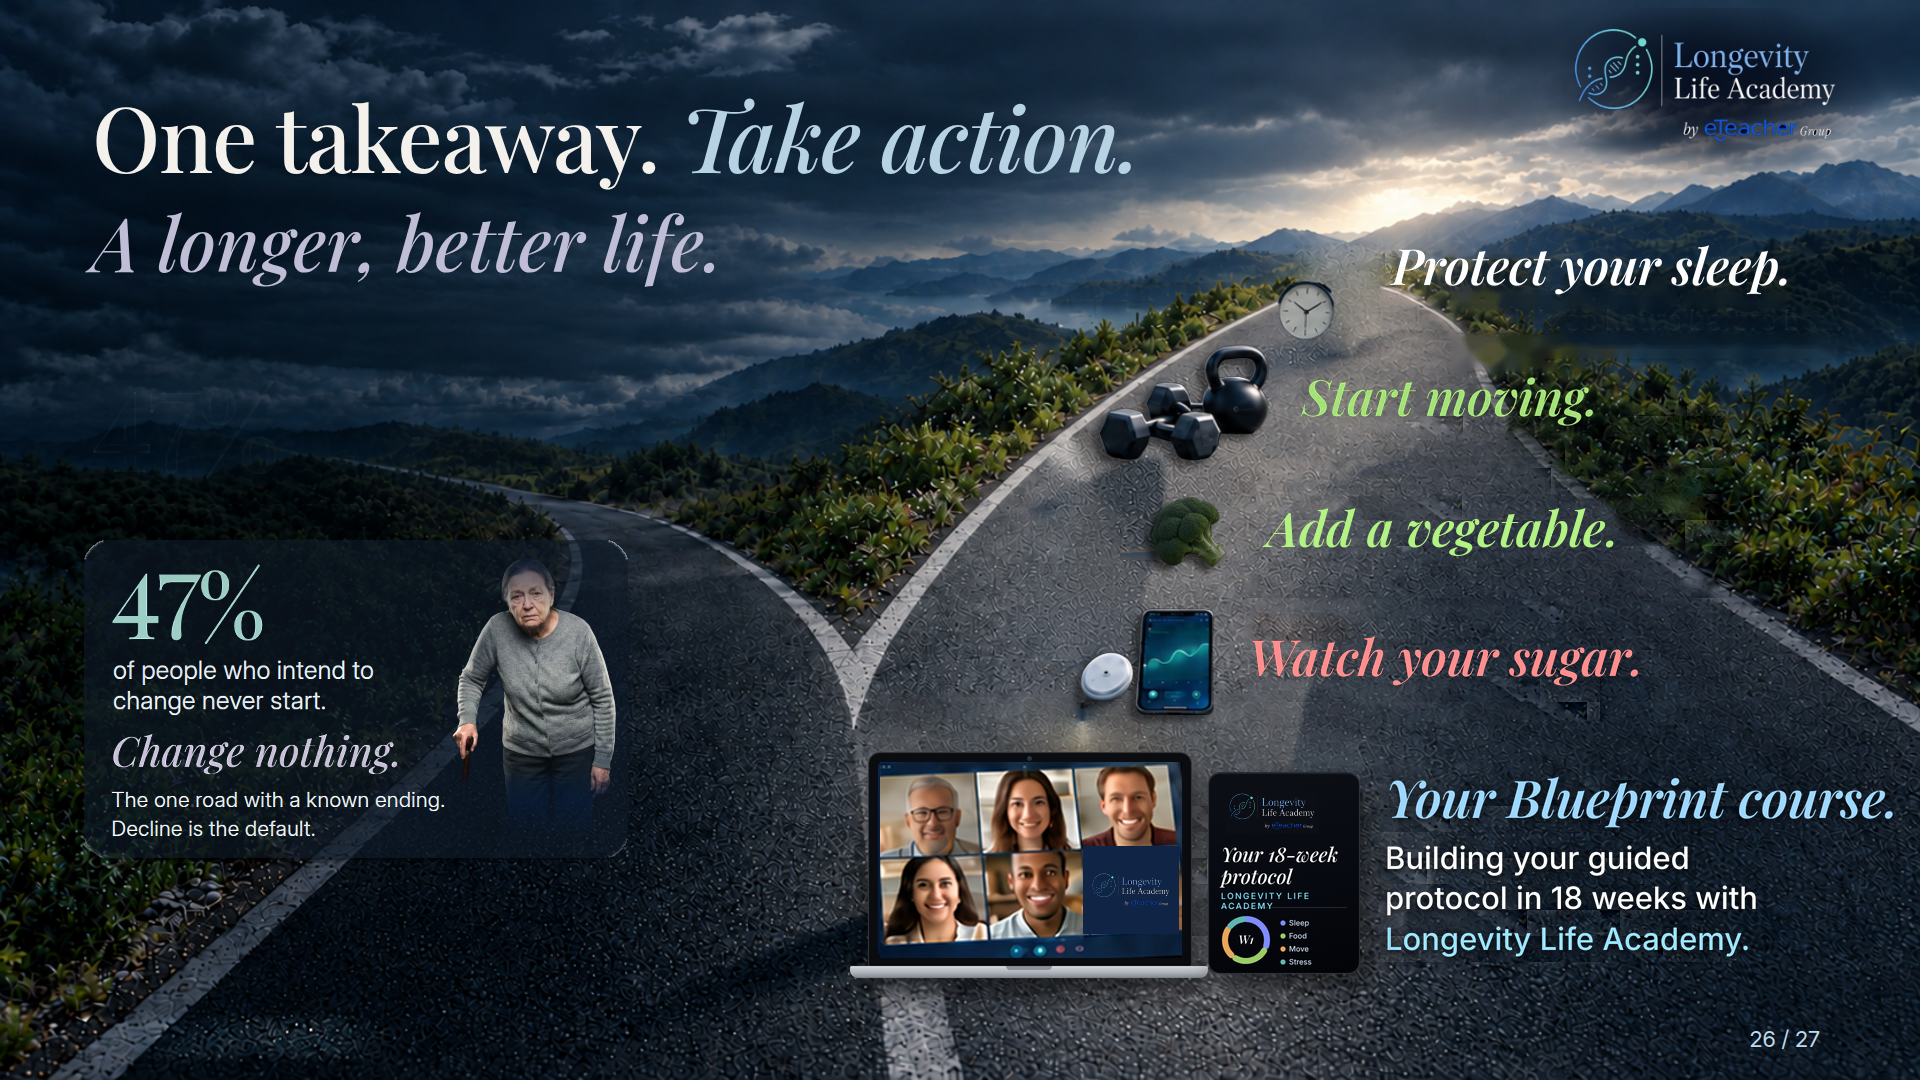
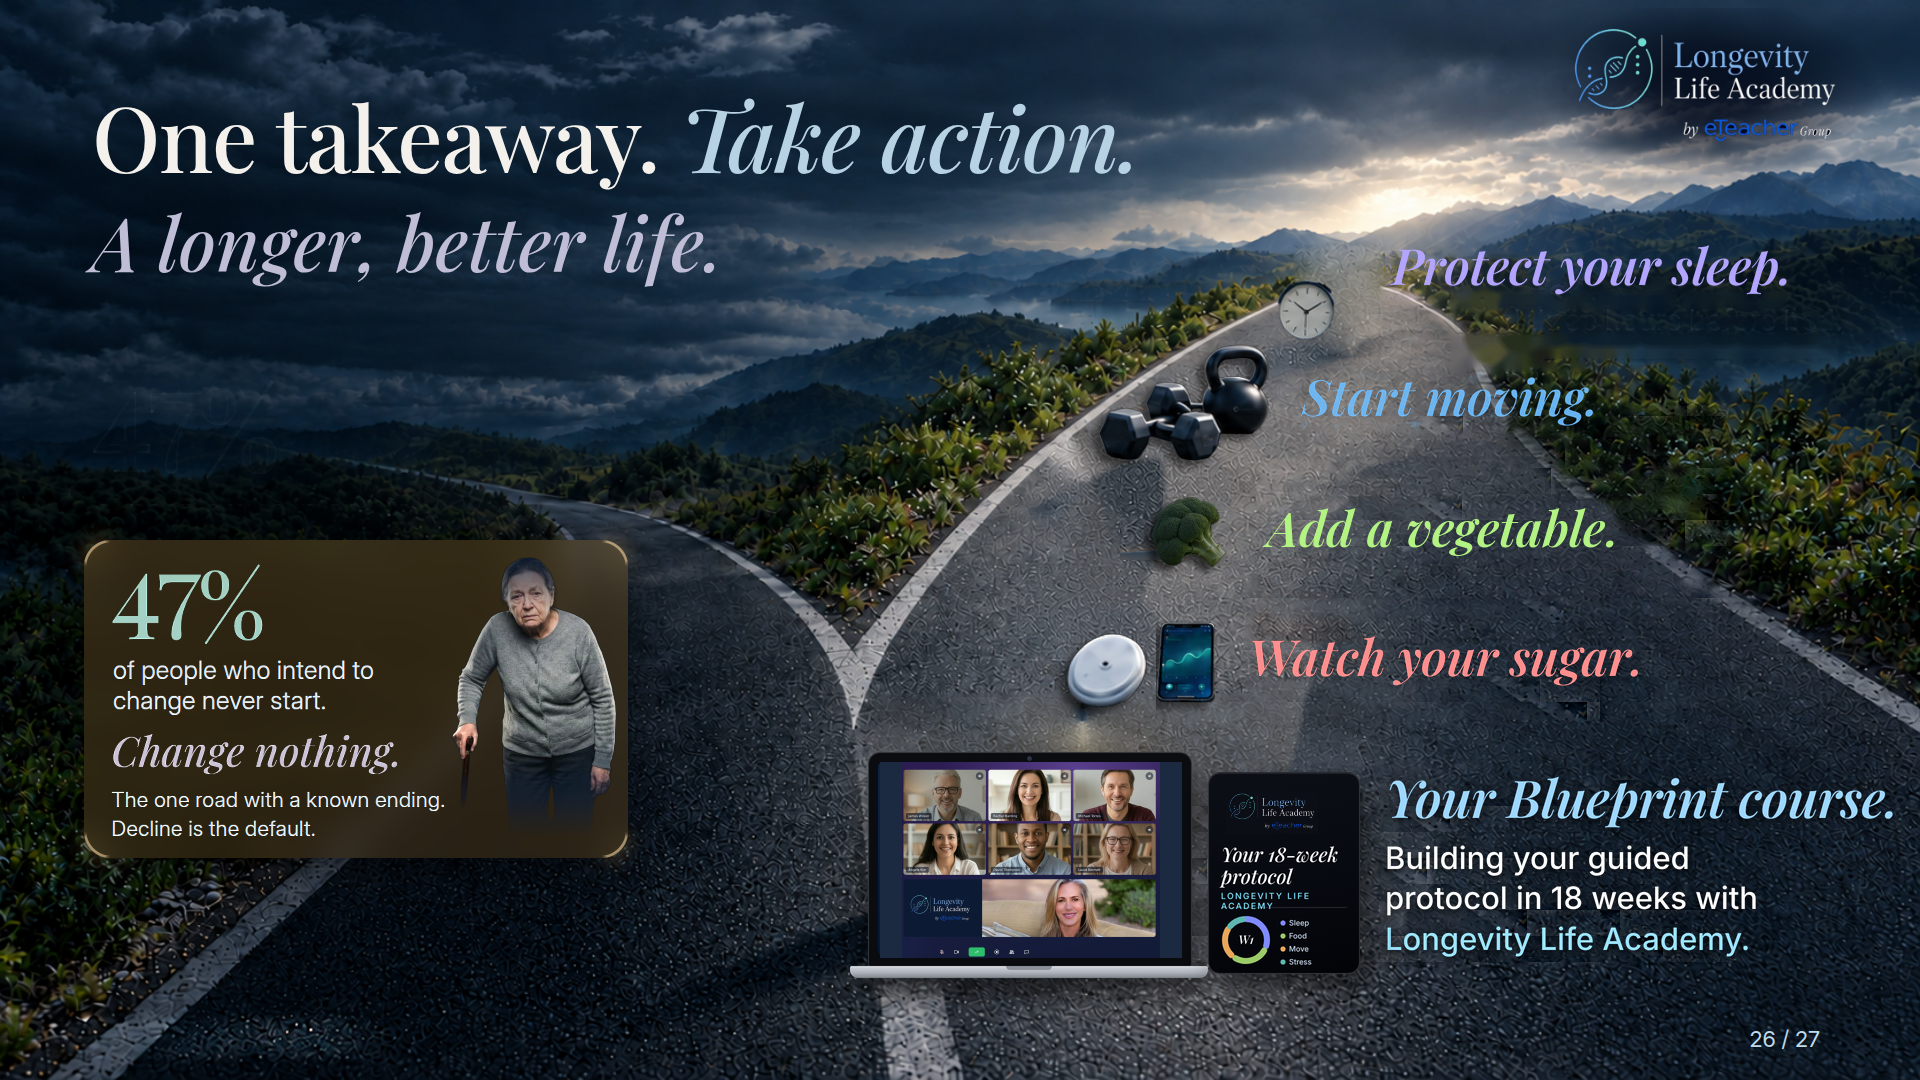
fork-lab: real Zoom mockup on laptop, bigger CGM/smaller phone, deck glass card (gold), distinct action colours

diff --git a/slide-canvas/fork-lab/index.html b/slide-canvas/fork-lab/index.html
@@ -1,4 +1,4 @@
 <!doctype html><html><head><meta charset="utf-8"><title>Fork lab – slide 26</title>
 <style>body{margin:0;background:#0b1220;color:#dfe7f3;font:15px/1.4 Inter,system-ui,sans-serif}h2{font-weight:500;margin:28px 24px 10px}img{display:block;width:calc(100% - 48px);max-width:1920px;margin:0 24px 24px;border-radius:6px}</style></head>
 <body><h2>Original</h2><img src="original-n25-fork.png?v=1" alt="Original">
-<h2>New</h2><img src="new-n25-fork.png?v=8" alt="New"></body></html>
+<h2>New</h2><img src="new-n25-fork.png?v=9" alt="New"></body></html>

diff --git a/slide-canvas/fork-lab/src/b3.py b/slide-canvas/fork-lab/src/b3.py
@@ -1,5 +1,5 @@
 import cv2,numpy as np
-from PIL import Image
+from PIL import Image,ImageDraw
 O=cv2.imread('o.png').astype(np.float32);R=np.load('R_right.npy');plate=np.load('plate.npy');tm=np.load('tm.npy')
 H,W=O.shape[:2]
 def dil(m,k):return cv2.dilate(m,cv2.getStructuringElement(cv2.MORPH_ELLIPSE,(k,k)))
@@ -38,14 +38,27 @@ top=np.clip(1-yy/(hh*0.6),0,1)
 rim=np.array([200,190,90],np.float32)*(edge*top*0.32)[...,None]
 glass=glass+rim+ (edge*top*14)[...,None]+ (edge*(1-top)*8)[...,None]
 inner=cv2.GaussianBlur(mk,(0,0),10);glass*= (0.92+0.08*inner)[...,None]
-roi=R[CY0:CY1,CX0:CX1];A=mk[...,None];glass=roi*0.38+np.array([40,26,14],np.float32)*0.62
-R[CY0:CY1,CX0:CX1]=roi*(1-A)+glass*A
-inner2=cv2.erode(mask,np.ones((5,5),np.uint8));brd=((mask>0)&(inner2==0)).astype(np.float32)
-t2=np.clip(1.0-yy/hh,0.45,1)
-ring=cv2.erode(mask,np.ones((3,3),np.uint8));e1=((mask>0)&(ring==0)).astype(np.float32);e2=((ring>0)&(inner2==0)).astype(np.float32)
-R[CY0:CY1,CX0:CX1]+= (e1*t2*95+e2*t2*28)[...,None]
-R[CY1:CY1+2,CX0+RAD:CX1-RAD]*=0.6
-R[CY1+2:CY1+4,CX0+RAD:CX1-RAD]*=0.82
+def rrmask(x0,y0,x1,y1,r,S=4):
+    w,h=x1-x0,y1-y0;m=Image.new('L',(w*S,h*S),0);ImageDraw.Draw(m).rounded_rectangle((0,0,w*S-1,h*S-1),radius=r*S,fill=255)
+    return np.array(m.resize((w,h),Image.LANCZOS)).astype(np.float32)/255
+def ring(x0,y0,x1,y1,r,t=1.6):
+    a=rrmask(x0,y0,x1,y1,r);k=int(round(t));Sm=cv2.erode(a,np.ones((2*k+1,2*k+1),np.uint8))
+    return np.clip(a-Sm,0,1)
+def glass(N,box,r,tint,tint_a,edge_a,blur=16):
+    x0,y0,x1,y1=box;sub=N[y0:y1,x0:x1];bl=cv2.GaussianBlur(sub,(0,0),blur)
+    m=rrmask(x0,y0,x1,y1,r)[...,None]
+    t=np.array(tint[::-1],np.float32)
+    fill=bl*(1-tint_a)+t*tint_a*0.55+bl*0.0
+    # gentle vertical sheen
+    g=np.linspace(1.12,0.9,y1-y0)[:,None,None];fill=fill*g
+    out=sub*(1-m)+fill*m
+    e=ring(x0,y0,x1,y1,r)[...,None]*edge_a;out=out*(1-e)+(t*0.55+np.array([255,255,255],np.float32)*0.45)*e
+    N[y0:y1,x0:x1]=out;return N
+TINT=(226,170,80)
+R*=(1-0.5*sh[...,None])
+gm=np.zeros((H,W),np.float32);gm[CY0:CY1,CX0:CX1]=ring(CX0,CY0,CX1,CY1,RAD,3)
+gl=cv2.GaussianBlur(gm,(0,0),9)*ramp;R+=gl[...,None]*np.array(TINT[::-1],np.float32)[None,None]*0.9
+R=glass(R,(CX0,CY0,CX1,CY1),RAD,TINT,0.34,0.6)
 # ---- text: stat block scaled 1.07, change nothing 1.0
 def paste(R,lay,x,y,sc=1.0):
     if sc!=1.0:lay=cv2.resize(lay,(int(round(lay.shape[1]*sc)),int(round(lay.shape[0]*sc))),interpolation=cv2.INTER_CUBIC)

diff --git a/slide-canvas/fork-lab/src/b2.py b/slide-canvas/fork-lab/src/b2.py
@@ -51,8 +51,10 @@ def matte(x0,y0,x1,y1,mask):
     col=np.clip((s-b*(1-al[...,None]))/np.maximum(al[...,None],0.08),0,255)
     return col,al
 HD=[(1385,244,1800,302,248-249,0),(1300,365,1700,428,378-372,1304-1307),(1250,548,1700,608,638-556,1250-1257)]
-for x0,y0,x1,y1,dy,dx in HD:
+HC=[np.array([255,165,180],np.float32),np.array([255,190,110],np.float32),None]
+for (x0,y0,x1,y1,dy,dx),hc in zip(HD,HC):
     col,al=matte(x0,y0,x1,y1,tm);A=al[...,None]
+    if hc is not None: col=col*0+hc
     R[y0+dy:y1+dy,x0+dx:x1+dx]=R[y0+dy:y1+dy,x0+dx:x1+dx]*(1-A)+col*A
 def put(R,rgba,x,y,shadow=True,sh_op=0.5):
     h,w=rgba.shape[:2];A=rgba[...,3:]/255;rgb=rgba[...,2::-1] if rgba.shape[2]==4 else None
@@ -65,9 +67,19 @@ def obj(n,sc):
     c,ox,oy=L[n];h,w=c.shape[:2];c=cv2.resize(c,(int(round(w*sc)),int(round(h*sc))),interpolation=cv2.INTER_AREA)
     a=(c[...,3]>20);ys,xs=np.where(a);return c,xs.min(),ys.min(),xs.max(),ys.max()
 GAP=36
-rows=[('clock',1.0,272,1394),('dumb',0.9,402,1304),('cgm',0.9,662,1250)]
+rows=[('clock',1.0,272,1394),('dumb',0.9,402,1304),]
 for n,sc,cy,tl in rows:
     c,a0,b0,a1,b1=obj(n,sc);x=int(tl-GAP-a1);y=int(cy-(b0+b1)/2);put(R,c,x,y);print(n,x+a0,y+b0,x+a1,y+b1)
+# CGM bigger, phone smaller
+c,ox,oy=L['cgm'];sen=c[:,:98].copy();ph=c[:,98:].copy()
+def bb(a):
+    ys,xs=np.where(a[...,3]>20);return xs.min(),ys.min(),xs.max(),ys.max()
+def sc_(a,s):return cv2.resize(a,(int(a.shape[1]*s),int(a.shape[0]*s)),interpolation=cv2.INTER_CUBIC if s>1 else cv2.INTER_AREA)
+ph=sc_(ph,0.68);sen=sc_(sen,1.35)
+cy=662;tl=1250
+a0,b0,a1,b1=bb(ph);px=int(tl-GAP-a1);py=int(cy-(b0+b1)/2);put(R,ph,px,py)
+s0,t0,s1,t1=bb(sen);sx=int(px+a0-10-s1);sy=int(cy+8-(t0+t1)/2);put(R,sen,sx,sy)
+print('sensor',sx+s0,sy+t0,sx+s1,sy+t1,'phone',px+a0,py+b0,px+a1,py+b1)
 # ---- veg headline
 pf=F+'PlayfairDisplay-Italic.ttf'
 f=ImageFont.truetype(pf,49)

diff --git a/slide-canvas/fork-lab/src/b4.py b/slide-canvas/fork-lab/src/b4.py
@@ -7,23 +7,22 @@ def feather(x0,y0,x1,y1,f):
 a=feather(1228,228,1385,352,8);R=R*(1-a)+O*a
 # 6 footer label left
 a=feather(30,1010,420,1065,6);R=R*(1-a)+plate*a
-# 2 laptop zoom gallery from base plate
-src=np.float32([[912,716],[1160,716],[1160,880],[912,880]])
-dst=np.float32([[880,762],[1182,762],[1182,958],[880,958]])
-M=cv2.getPerspectiveTransform(src,dst)
-g=cv2.warpPerspective(B,M,(W,H),flags=cv2.INTER_CUBIC)
+# 2 laptop: real Zoom mockup (lla-masterclass-assets/zoom-meeting-ui-chat.jpg)
+Z=cv2.imread('zmu.jpg').astype(np.float32)
 x0,y0,x1,y1=880,762,1182,958
-R[y0:y1,x0:x1]=g[y0:y1,x0:x1]
-# logo tile = bottom-right tile (3 cols x 2 rows within top ~85% of screen)
-th=int((y1-y0)*0.83/2);tw=(x1-x0)//3
-tx0=1083;ty0=882-36;tx1=1179;ty1=934
-R[ty0:ty1,tx0:tx1]=np.array([70,36,16],np.float32)
+sw,sh_=x1-x0,y1-y0
+crop=Z[:,515:1938]
+s_=sh_/crop.shape[0];zw=int(round(crop.shape[1]*s_))
+zr=cv2.resize(crop,(zw,sh_),interpolation=cv2.INTER_AREA)
+bgc=Z[1040:1075,520:1900].reshape(-1,3).mean(0)
+scr=np.zeros((sh_,sw,3),np.float32)+bgc
+ox=(sw-zw)//2;scr[:,ox:ox+zw]=zr
+R[y0:y1,x0:x1]=scr
 L=cv2.imread('/workspace/lla-masterclass-syllabus/slide-canvas/v46/assets/src/fork-v46/closing-graphics/lla-logo-original.png',-1).astype(np.float32)
 def putlogo(R,cx,cy,w):
     l=cv2.resize(L,(w,int(L.shape[0]*w/L.shape[1])),interpolation=cv2.INTER_AREA)
     h=l.shape[0];x=int(cx-w/2);y=int(cy-h/2);A=l[...,3:]/255
     R[y:y+h,x:x+w]=R[y:y+h,x:x+w]*(1-A)+l[...,:3]*A
-putlogo(R,(tx0+tx1)/2,(ty0+ty1)/2,int((tx1-tx0)*0.84))
 # 3 phone logo: clear & paste sharp
 bgc=O[786:792,1240:1300].reshape(-1,3).mean(0)
 R[790:834,1226:1318]=bgc
